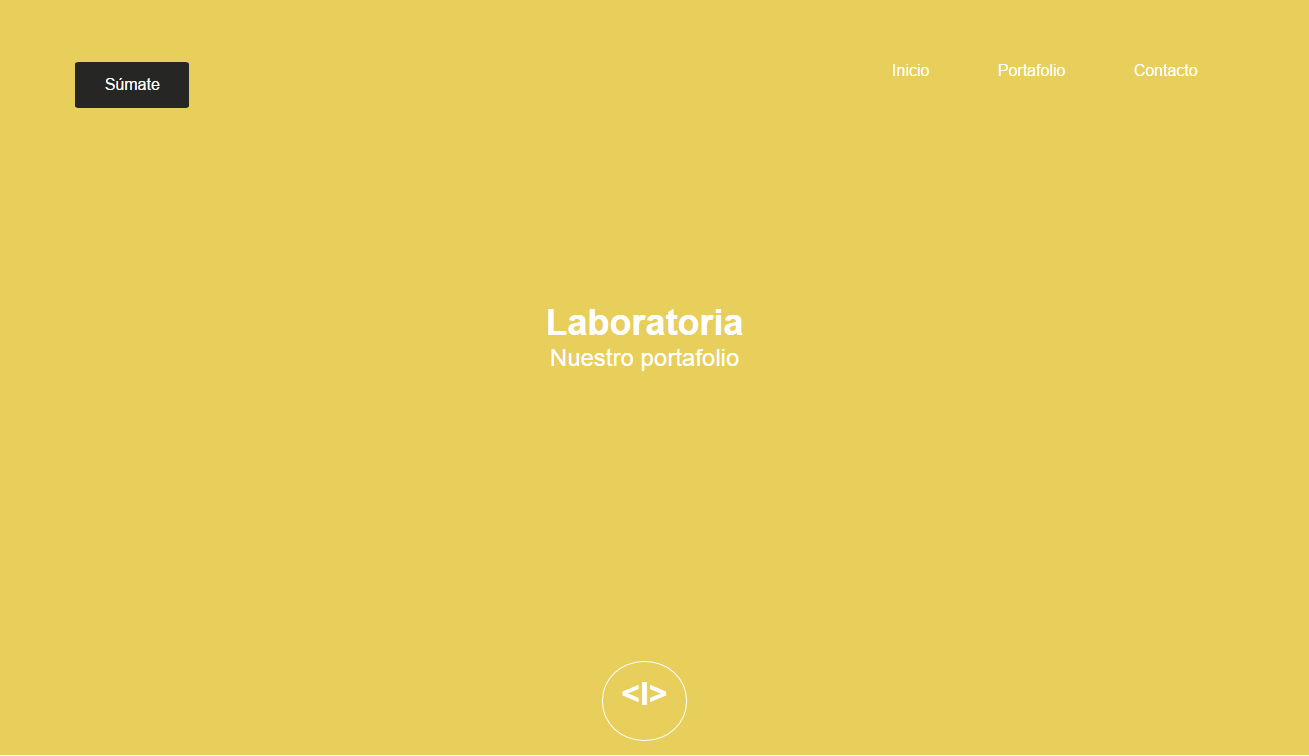
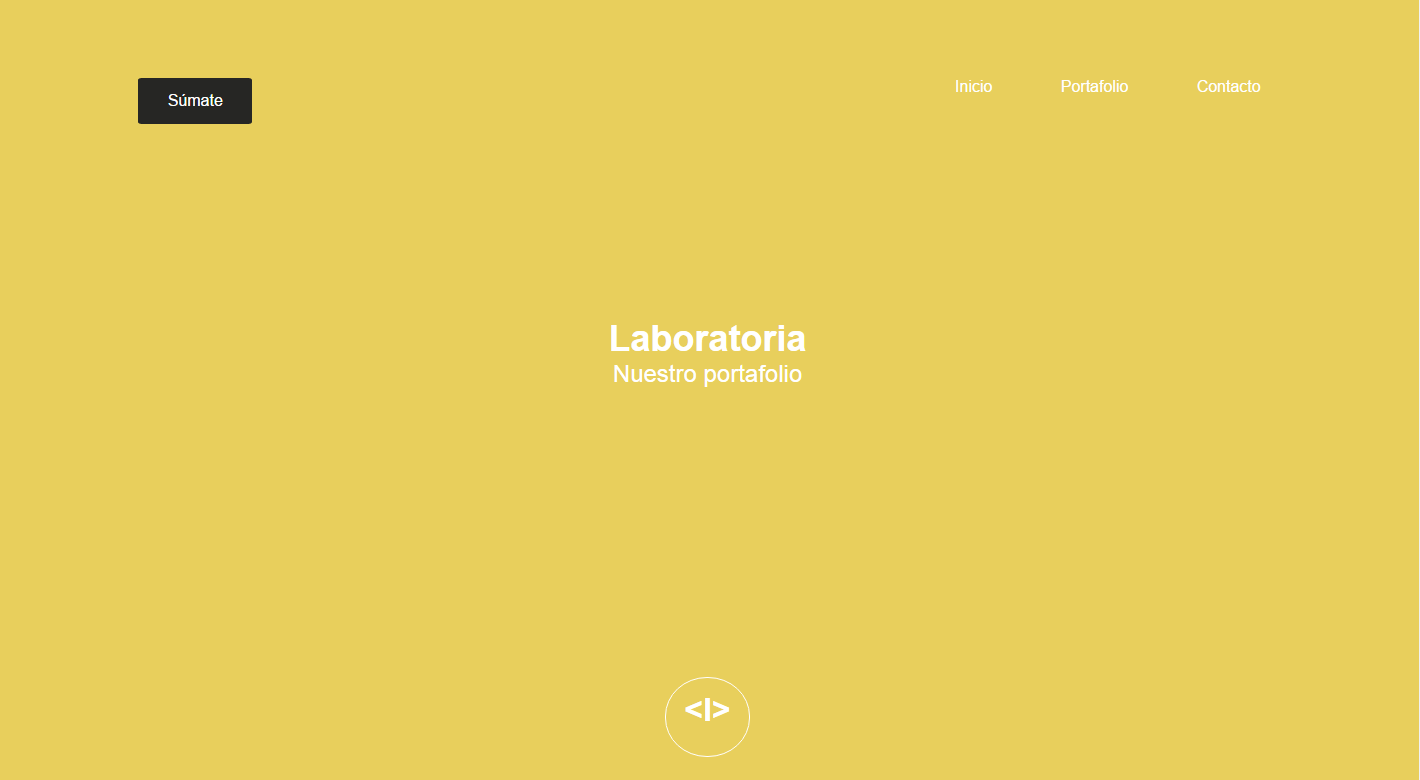
Cambié imagen del proyecto amarillo

diff --git a/index.html b/index.html
@@ -75,7 +75,7 @@
 				<div class="col-md-6 col-sm-12">
 					<div class="gray">
 						<a href="http://celestesuarez.github.io/olasperu-/"target="_blank">
-							<img class="work"src="img/laboratoria.png">
+							<img class="work"src="img/amarillo.png">
 						</a>
 				</div>
 				</div>
